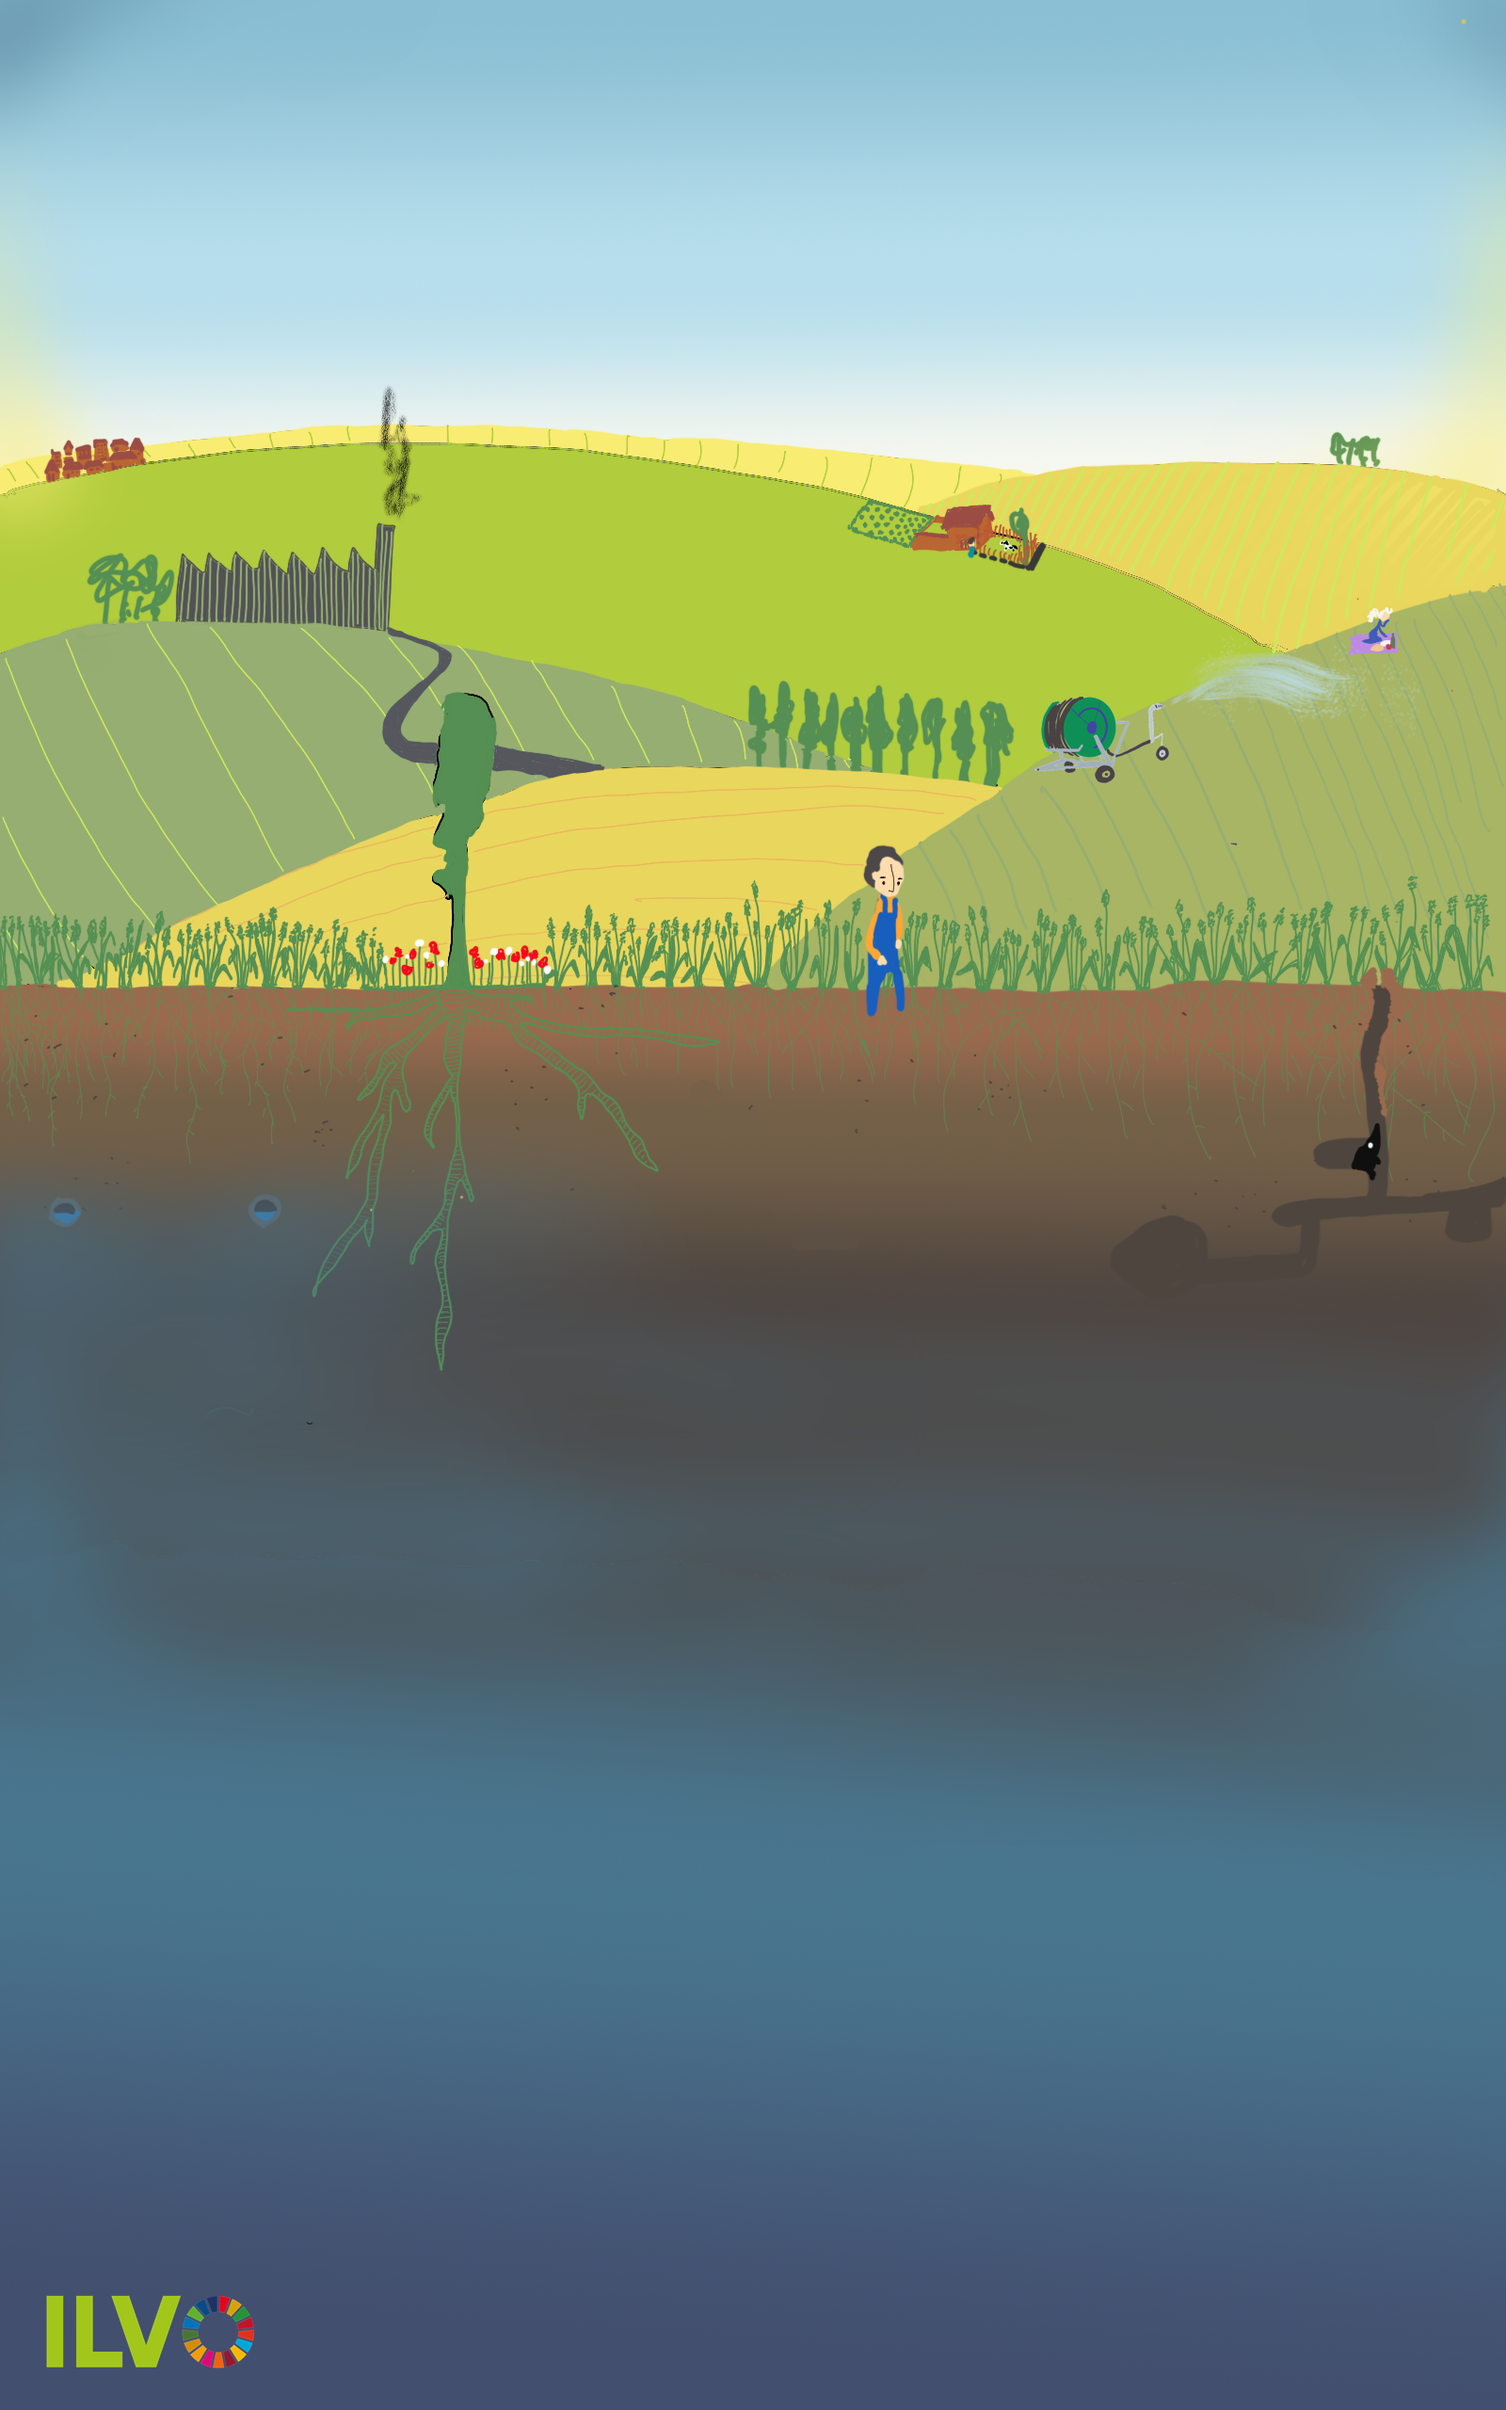
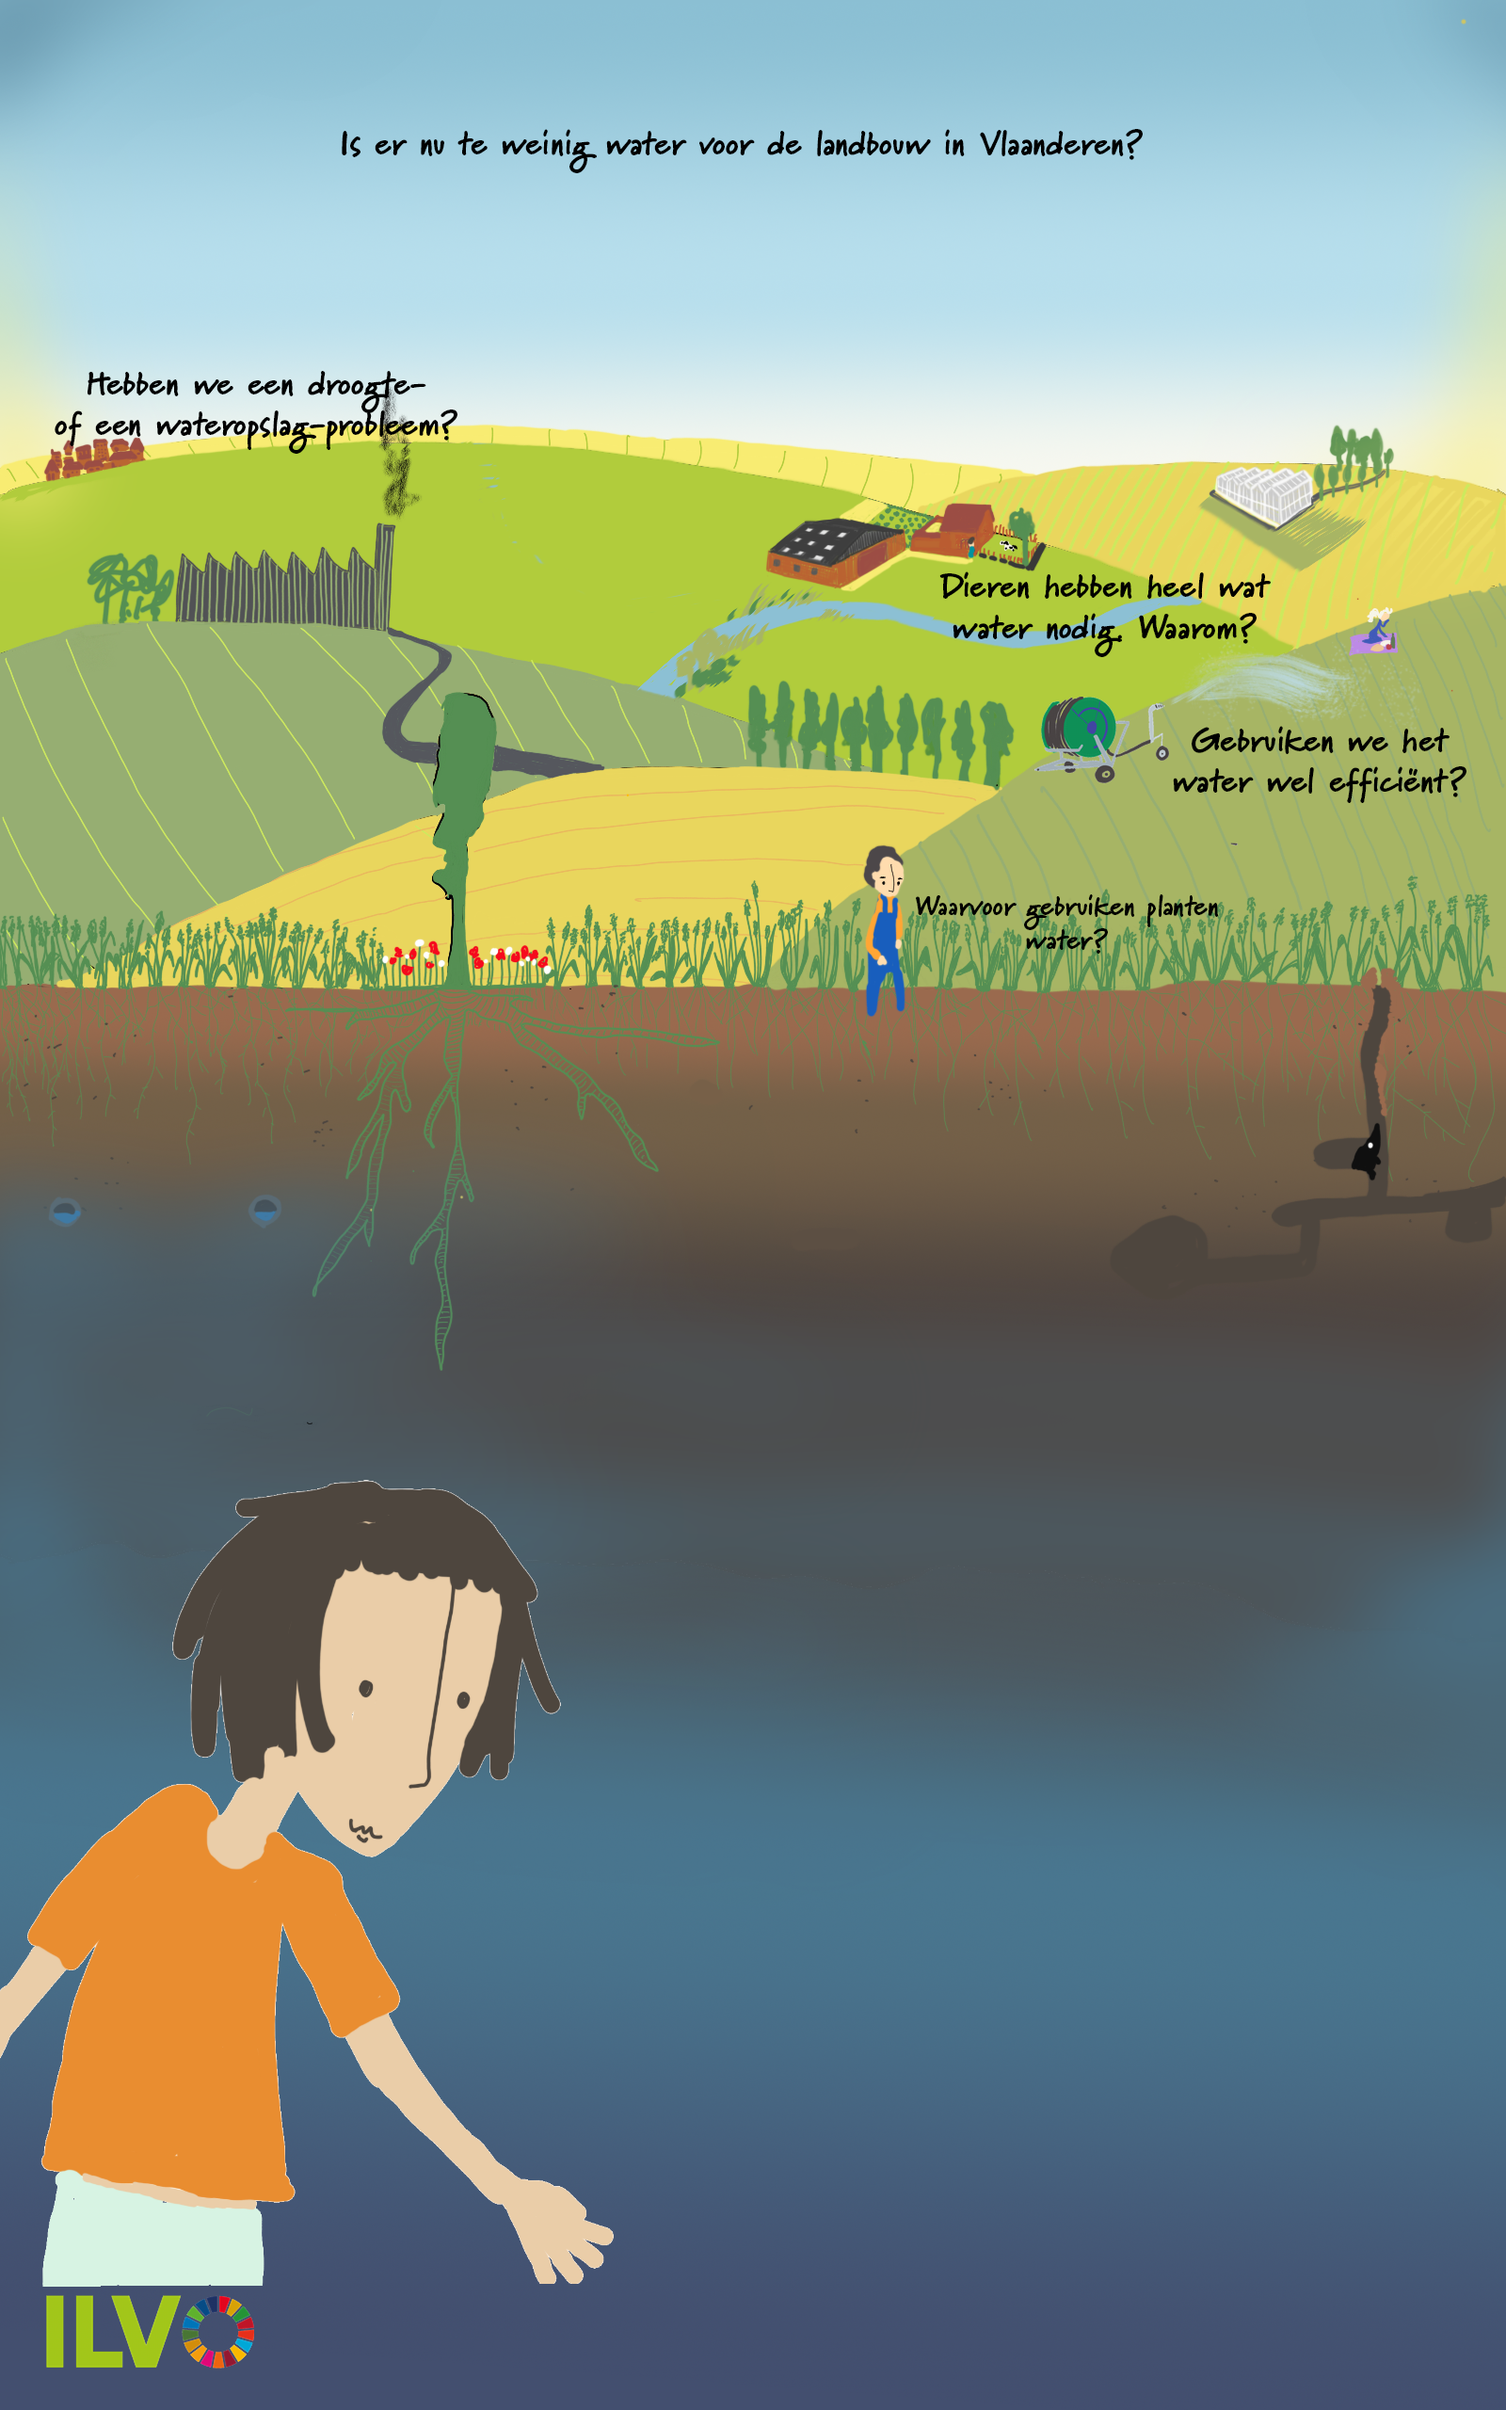
extra flapjes - aanpassingen illustraties

diff --git a/index.html b/index.html
@@ -10,7 +10,7 @@
 <body>
 
 <ul id="flaps">
-	<li id="drought"><a href="context.html"><span>Is er nu te weinig water in Vlaanderen?</span></a></li>
+	<li id="drought"><a href="context.html"><span>Is er nu te weinig water voor landbouw in Vlaanderen?</span></a></li>
     <li id="water-storage"><a href="http://xxx"><span>Is het een waterschaarste-probleem of een wateropslag-probleem?</span></a></li>
 	<li id="irrigation-scheduling"><a href="xxx"><span>Waarvoor gebruiken planten water?</span></a></li>
 	<li id="irrigation-efficiency"><a href="xxx"><span>Gebruiken we het water efficient?</span></a></li>
@@ -19,7 +19,7 @@
     <li id="cropping-systems"><a href="http://xxxx"><span>Kunnen we misschien anders boeren?</span></a></li>
 	<li id="new-crops"><a href="http://xxxx"><span>Kunnen we nu olijven telen in Vlaanderen?</span></a></li>
     <li id="drainage"><a href="http://xxx"><span>Slimmer water afvoeren, kan dat?</span></a></li>
-	<li id="water-footprint"><a href="http://xxx"><span>Hoeveel water voor jouw eten?</span></a></li>
+	<li id="water-reuse"><a href="http://xxx"><span>Is hergebruik van water een optie?</span></a></li>
 	<li id="soil-management"><a href="http://xxx"><span>Kan de bodem (meer) water opslaan?</span></a></li>
 	<li id="groundwater"><a href="http://xxx"><span>Is er overal evenveel grondwater?</span></a></li>
 </ul>

diff --git a/stijl_water.css b/stijl_water.css
@@ -7,6 +7,7 @@ body
     font-weight:normal;
 }
 
+/* Eerst 2 soorten flapjes definiëren: kennis en acties */
 ul#flaps {
  list-style: none;
  background: url(images/achtergrond.png) no-repeat 0 0;
@@ -17,7 +18,7 @@ ul#flaps {
  padding: 0;
 }
 ul#flaps li {
- border: 1px solid #FFF;
+ border: 1px dashed#FFF;
  position: absolute;
 }
 ul#flaps li a{
@@ -42,6 +43,8 @@ ul#flaps li a:hover span {
  color: #FFF;
 }
 
+
+/* Positie en eigenschappen van elk flapje*/
 #drought {
 	vertical-align: middle;
 	text-align: center;
@@ -71,7 +74,7 @@ ul#flaps li#water-storage a:hover {
  left: 950px;
 } 
 ul#flaps li#water-livestock a:hover {
- background-position: -950px -460px;
+ background-position: -950px -465px;
 }
 #water-sources {
  width: 250px;
@@ -85,6 +88,9 @@ ul#flaps li#water-livestock a:hover {
  top: 730px;
  left: 1100px;
 } 
+ul#flaps li#irrigation-efficiency a:hover {
+ background-position: -1100px -730px;
+}
 #irrigation-scheduling {
  width: 350px;
  height: 260px;
@@ -109,7 +115,7 @@ ul#flaps li#water-livestock a:hover {
  top: 1120px;
  left: 20px;
 }
-#water-footprint {
+#water-reuse {
  width: 400px;
  height: 450px;
  top: 635px;
